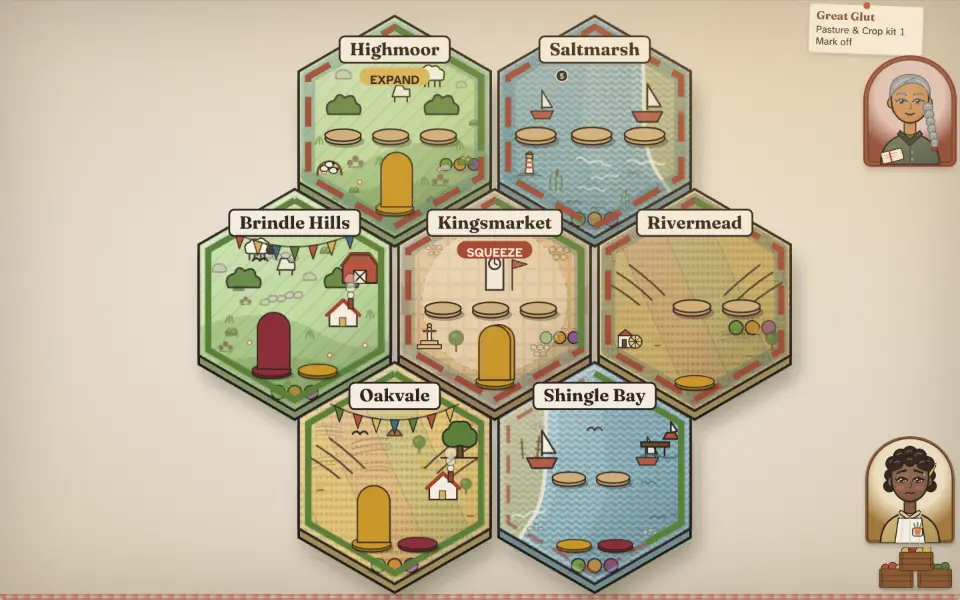
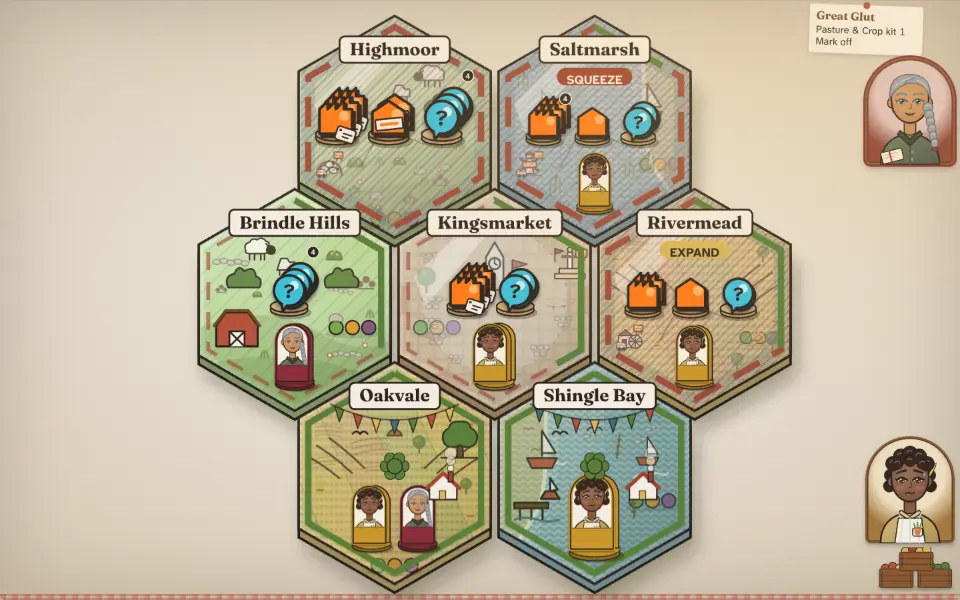
Key art re-shot (Cathnivore, NIGHT SHIFT); lane A notes: full check; release .build-lock
Claude-Session: https://claude.ai/code/session_01SimvMPCwMTUvTyXa5dk3qL

diff --git a/PROGRESS.md b/PROGRESS.md
@@ -37,7 +37,7 @@ None (Vercel deployed 9aee11e on 2026-10-12). (The App Store launch is postponed
 - 2026-10-21 22:44 `5109694`: CATHODE C15 "Armour that breaks, enemies that stagger" (armour/stagger/wounds sims, plates that crack with an amber seam, collapse and fall as rigid pieces, shattered visors over modelled faces, front/back/side staggers, knockdown and get-up, disarm with sidearm draw, limp/hanging arm/crawl, riot shield breaks in three, crit and takedown windows). All gates passed first try (1525 tests, Lighthouse 91); live version.json matches; browser smoke inconclusive (sandbox proxy), HTTP check passed; tag push 403 (harmless). 2nd release today.
 
 ## Session log (newest first, last 15)
-- **2026-11-08 08:51 lane A session:** CI: 821eb15's red was a cancelled run (af42d75 green). Item 279 slices 4-7 and done; item 278 slices 1-3. Passing: campaign, -map (new landmark-size check), -spread, -vignettes, -cath in Chromium; campaign-map-layout (Hollowell tape); axe colour-contrast on the campaign at P/D light/dark; cathode-classposes, -silhouettes (new, IoU 0.46-0.66), -models, -frontwet; e2e-site cathode-classpick (13), cathode-classpose (P and D); ui-css-lint, cathode-type; tsc, eslint. Full `npm run check` not run (time). Shots scratchpad c5, cp.
+- **2026-11-08 08:51 lane A session:** CI: 821eb15's red was a cancelled run (af42d75 green). Item 279 slices 4-7 and done; item 278 slices 1-3. Passing: campaign, -map (new landmark-size check), -spread, -vignettes, -cath in Chromium; campaign-map-layout (Hollowell tape); axe colour-contrast on the campaign at P/D light/dark; cathode-classposes, -silhouettes (new, IoU 0.46-0.66), -models, -frontwet; e2e-site cathode-classpick (13), cathode-classpose (P and D); ui-css-lint, cathode-type; tsc, eslint. Full `npm run check`: 2490 passed, 2 failed on keyart-fresh (Cathnivore and NIGHT SHIFT art changed this session); key art re-shot, keyart-fresh passes. Shots scratchpad c5, cp.
 - **2026-11-08 08:22 lane B session:** CI green on 5448c3d. Item 280 slice 2 and done, 288 slice 1. Passing: hedgerow-3dframe, -gatequeue, -biome3d, -closeframe, -dressing3d; camera3d and depot3d failed once under parallel load and passed alone; keyart-fresh.
 - **2026-11-08 07:51 lane A session:** CI green on d7e3a47. Item 274 slices 4-5 and done; planning (items 282-285, 287, 288 from a subagent critique of `plan1108b`); item 279 slices 1-3. Passing: hedgerow-map, -critique, -critique166/177 (65), hedgerow-stopland; campaign, -map, -spread, -cath, -vignettes in Chromium (the WebKit project can't launch here; one Growing Season load timeout under 3 workers passed alone), campaign-map-layout (new pin-vs-landmark check); ui-css-lint, keyart-fresh; tsc, eslint. Full `npm run check` passed (2491 tests, 283 files, build).
 - **2026-11-08 07:22 lane B session:** CI green on c0f1f9d. Item 277 (4 slices, done), 280 slice 1. Passing: runnel unit tests (105) incl. the new watered-field contrast check; runnel-fields (new), -board, -water, -win, -valley, -week-valley, -terrace, -practice, -lesson-close; hedgerow-depot3d, -vehicles, -3dframe, -biome3d (41).
